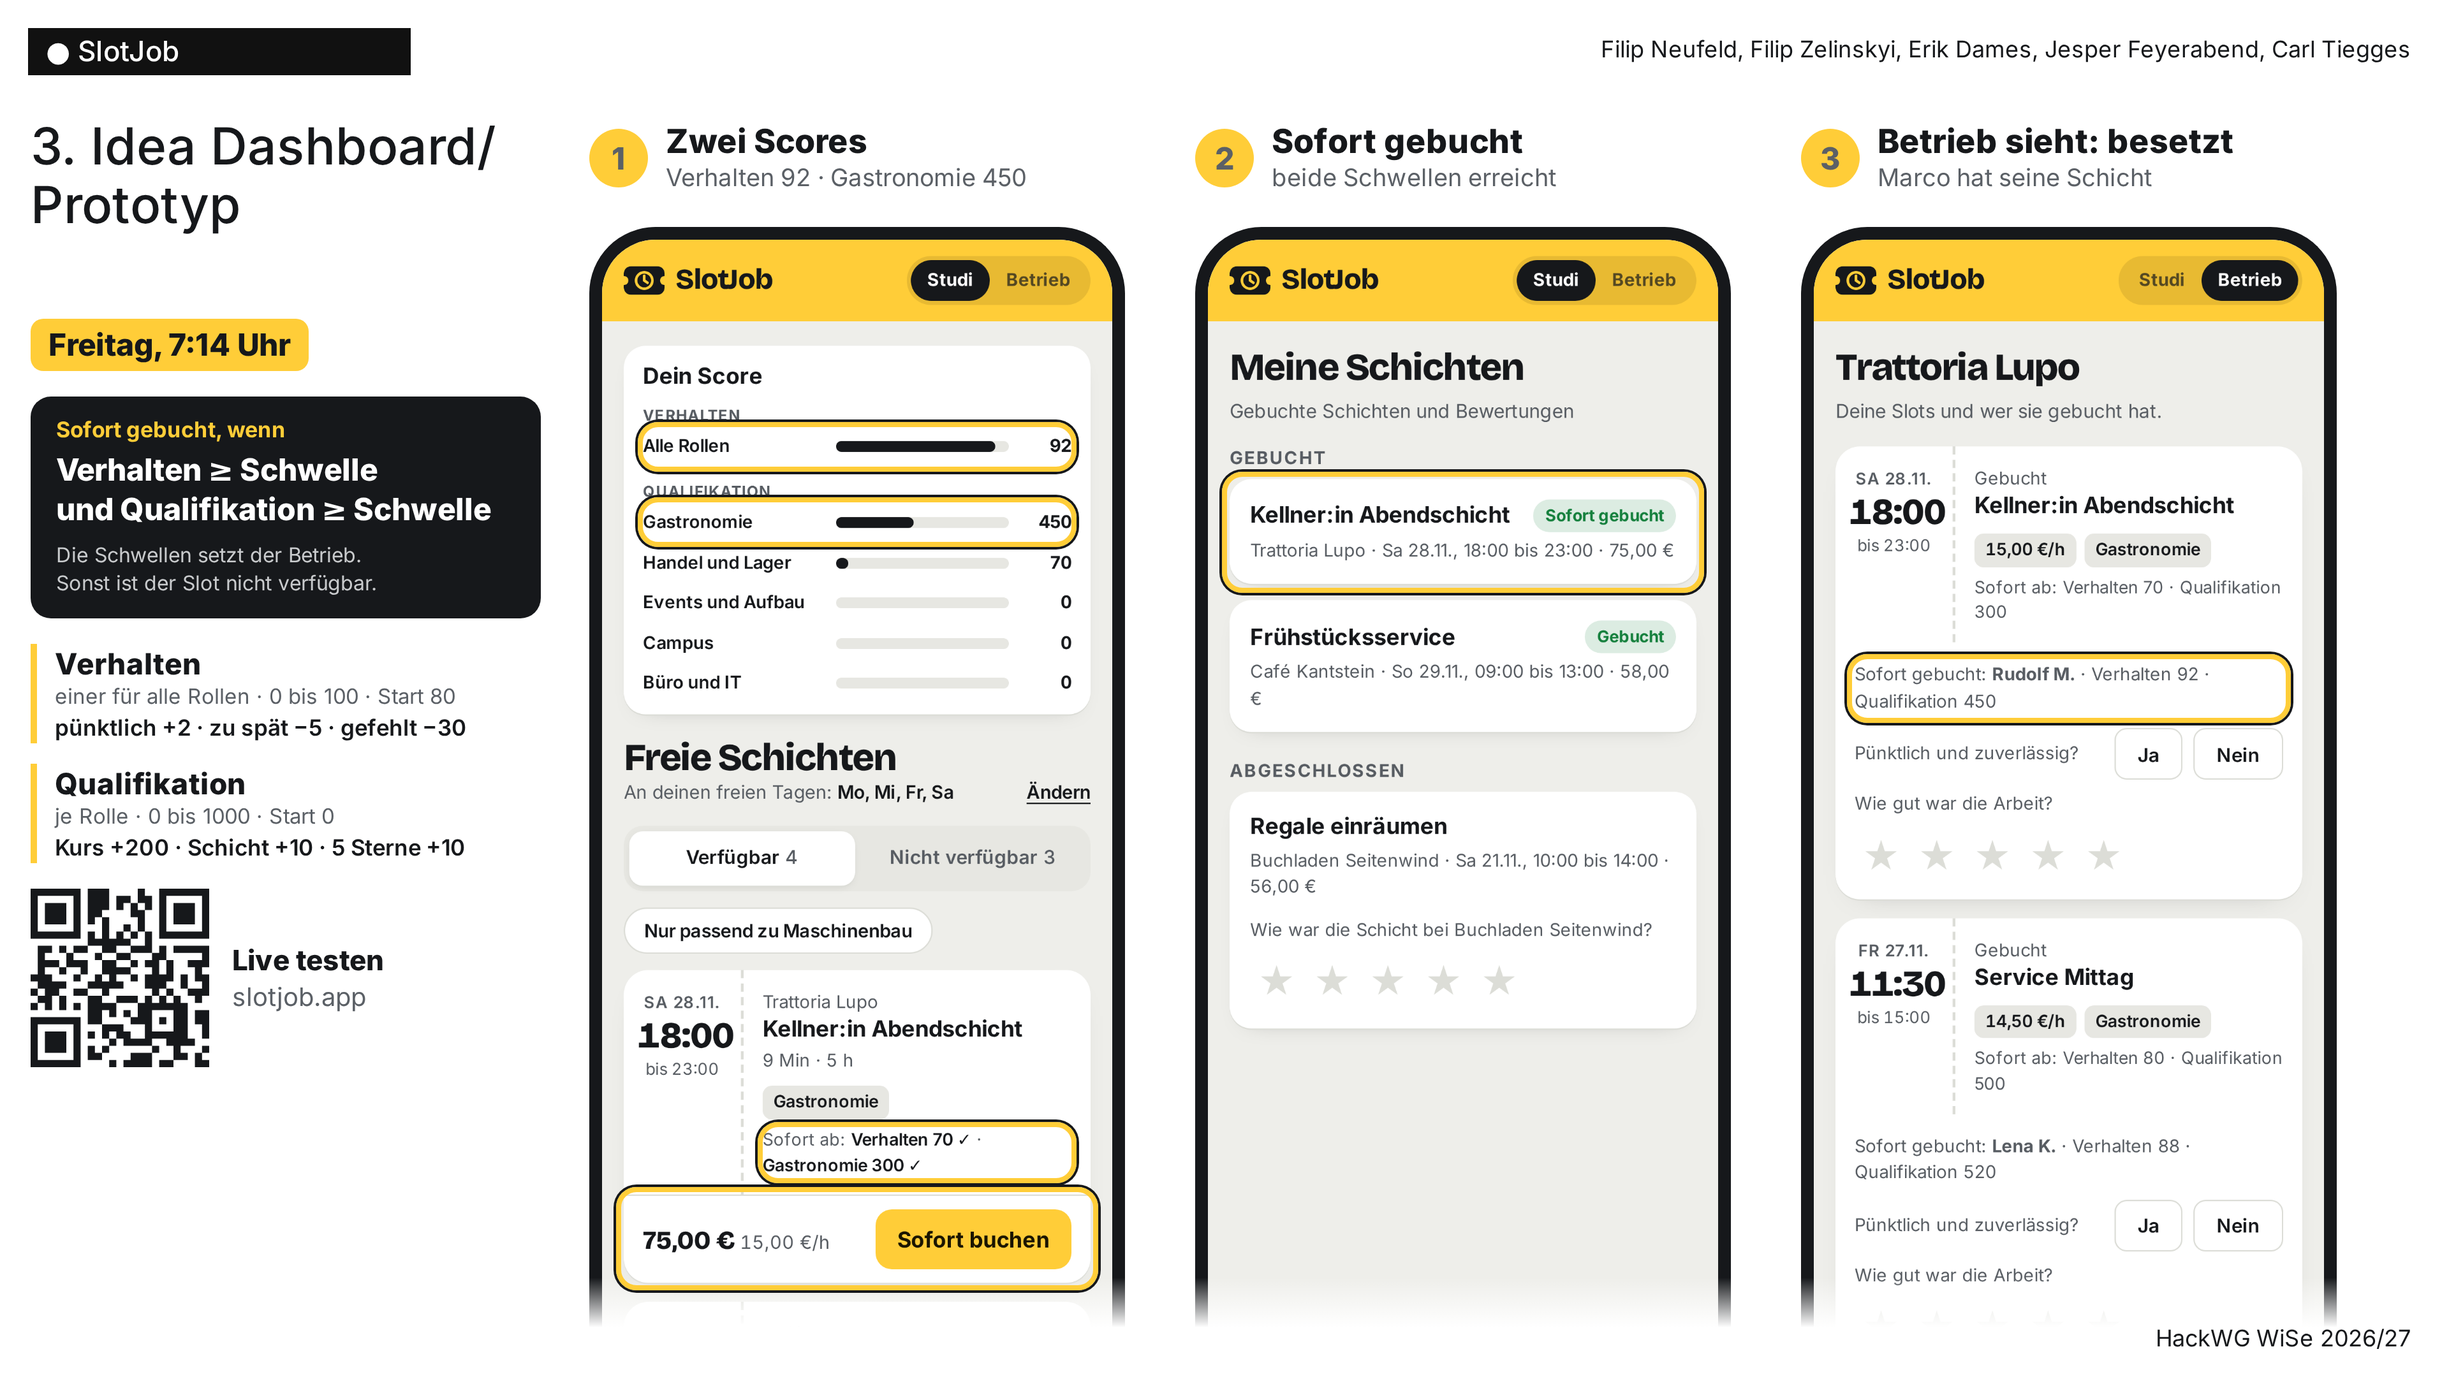
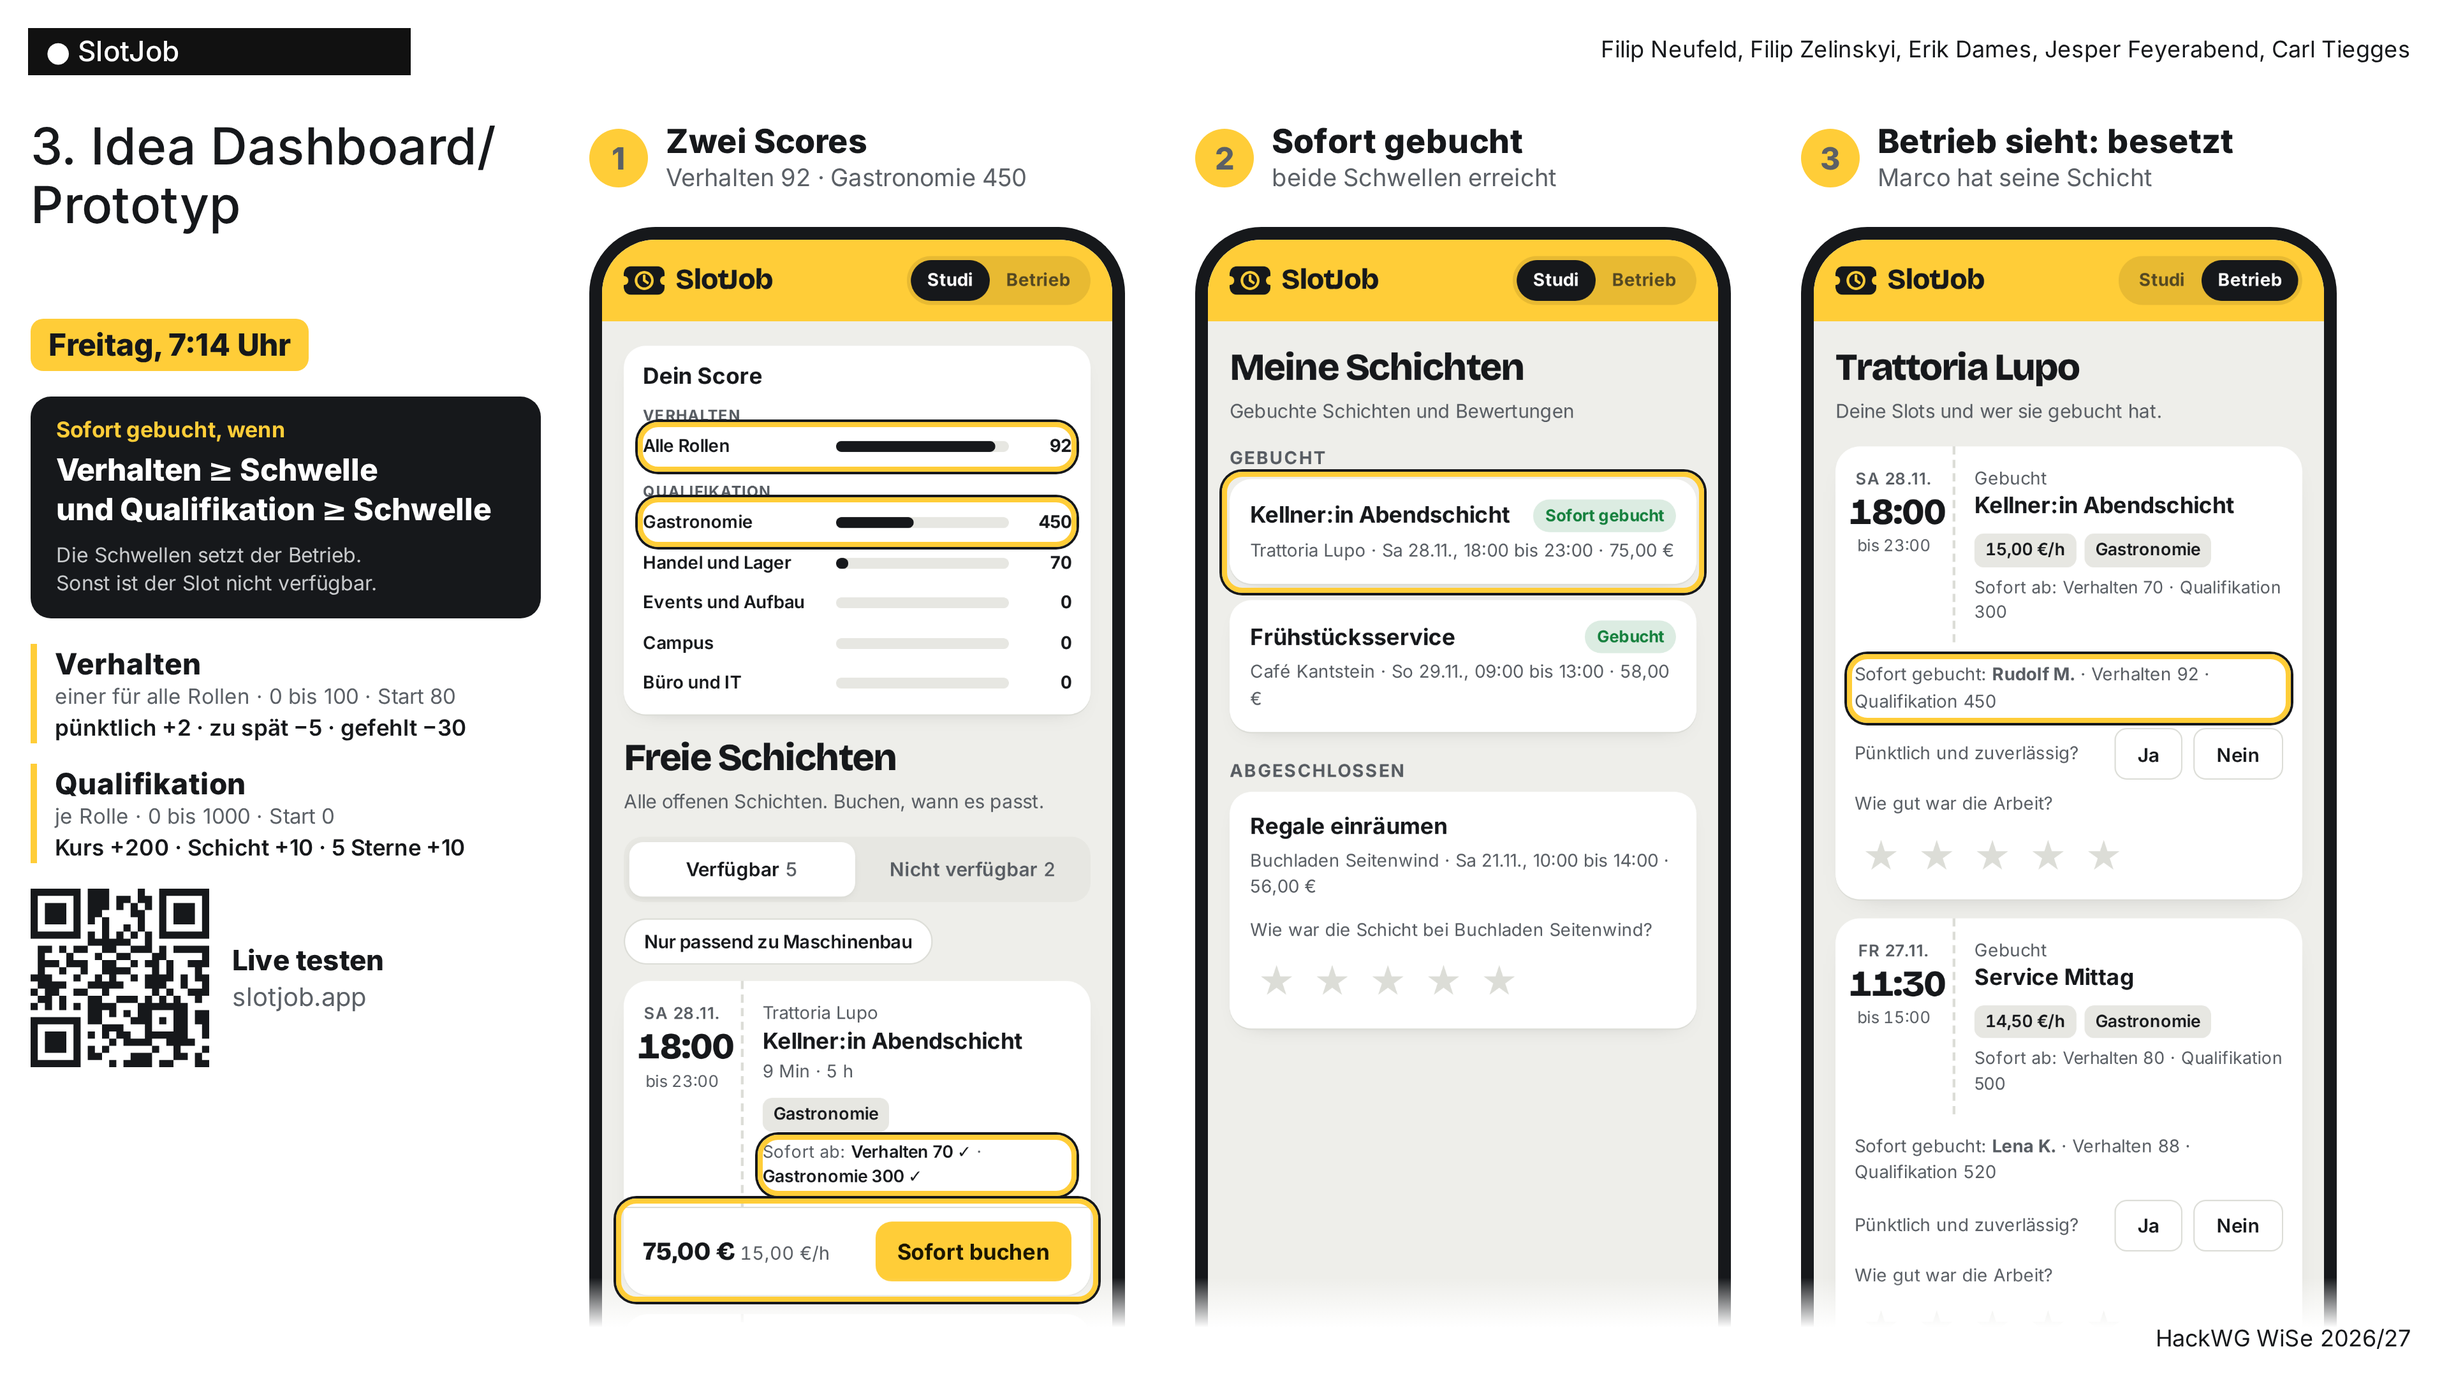
No fixed days: every open slot is visible and bookable at any time when both score thresholds are met
Filip 27.11.: the flexibility is that a student sees all open shifts and books spontaneously; the weekly free days are gone from onboarding, the slot list and the profile. A slot is unavailable only when a threshold is missed. plan.txt, kontext.md, the pitch text and slide 3 follow.

Claude-Session: https://claude.ai/code/session_01TtYjNNzjFNGfjoyzmP8vJg

Changed region(s): [[0.25, 0.5583, 0.4688, 0.9616]]

diff --git a/site/index.html b/site/index.html
@@ -60,9 +60,6 @@ h2{font:800 28px/1.05 var(--display);letter-spacing:-.03em;margin:2px 0 6px;text
 h3{font:700 16.5px/1.3 var(--text);margin:0}
 .sub{color:var(--mute);font-size:14px;margin:0 0 16px}
 .filters{display:grid;grid-template-columns:minmax(0,1fr) minmax(0,1fr);gap:4px;margin:0 0 16px;padding:4px;background:var(--soft);border-radius:14px}
-.myday{display:flex;align-items:center;justify-content:space-between;gap:10px;margin:-6px 0 14px;font-size:13.5px;color:var(--mute)}
-.myday b{color:var(--ink);font-weight:600}
-.myday .link{padding:0}
 .f{border:0;background:none;border-radius:10px;padding:8px 10px;font-size:14px;text-wrap:balance;line-height:1.2;font-weight:600;min-height:40px;color:var(--mute);text-align:center}
 .f.on{background:var(--card);color:var(--ink);box-shadow:0 1px 0 var(--line),0 2px 8px -4px rgba(0,0,0,.18)}
 .f .n{font-weight:500;color:var(--mute);margin-left:4px;font-variant-numeric:tabular-nums}
@@ -224,7 +221,7 @@ input[type=file]{font-size:13px;max-width:100%}
 </div>
 <script>
 {
-const KEY='slotjob-v5';
+const KEY='slotjob-v6';
 const DAYS=['Mo','Di','Mi','Do','Fr','Sa','So'];
 const FIELDS=['Maschinenbau','Informatik','BWL','Lehramt','Umweltwissenschaften','Anderes'];
 const LIMIT=603;
@@ -236,7 +233,7 @@ const RULES={v:[[['Start','80'],['Pünktlich','+2'],['Spontan','+5'],['Krank','0
  q:[[['Kurs/Zeugnis','+200'],['Schicht','+10']],[['5 Sterne','+10'],['1–2 Sterne','−10']]]};
 const NOTE={v:'Minuspunkte halbieren sich nach 3 Monaten.',q:'Gleiche Qualifikation zählt einmal. Schichten zählen bis +400.'};
 const rulesBox=t=>`<div class="rules">${RULES[t].map(col=>`<div>${col.map(([l,v])=>`<p><span>${l}</span><b>${v}</b></p>`).join('')}</div>`).join('')}</div><p class="small" style="margin:6px 0 0">${NOTE[t]}</p>`;
-const fresh=()=>({role:null,onb:0,field:'Maschinenbau',noExp:true,avail:['Mo','Mi','Fr','Sa'],tab:'slots',filter:'ok',open:null,roles:[],booked:[],instant:[],rated:{},cert:null,certRole:'Kellner',certs:{},biz:'Trattoria Lupo',etab:'mine',
+const fresh=()=>({role:null,onb:0,field:'Maschinenbau',noExp:true,tab:'slots',filter:'ok',open:null,roles:[],booked:[],instant:[],rated:{},cert:null,certRole:'Kellner',certs:{},biz:'Trattoria Lupo',etab:'mine',
  ev:[
   {a:'v',t:'Start',p:80},
   {a:'v',t:'16 × pünktlich',p:32},
@@ -309,7 +306,7 @@ const stars=(key,val)=>`<div class="stars">${[1,2,3,4,5].map(i=>`<button data-ac
 
 function onboarding(){
   const st=S.onb;
-  const steps=S.role==='emp'?2:3;
+  const steps=2;
   const bar=`<div class="steps">${Array.from({length:steps},(_,i)=>`<i class="${i<=st?'on':''}"></i>`).join('')}</div>`;
   let body='';
   if(st===0) body=`<div class="onb-hero">${logo()}<div class="big">Schichten statt Stellen.</div></div><p class="sub" style="font-weight:600;color:var(--ink)">Wie willst du SlotJob nutzen?</p>
@@ -321,15 +318,11 @@ function onboarding(){
   else if(st===1) body=`<div class="big">Was studierst du?</div><p class="sub">Damit zeigen wir dir auch Slots, die zu deinem Fach passen.</p>
    <label for="field">Studiengang</label><select id="field">${FIELDS.map(f=>`<option ${f===S.field?'selected':''}>${f}</option>`).join('')}</select>
    <label class="check"><input id="noexp" type="checkbox" ${S.noExp?'checked':''}> Ich habe noch keine Joberfahrung</label><div class="spacer"></div>
-   <button class="btn wide" data-act="next">Weiter</button>`;
-  else body=`<div class="big">Wann hast du diese Woche Zeit?</div><p class="sub">Du legst das jede Woche neu fest, z.B. weniger in der Prüfungsphase.</p>
-   <div class="days">${DAYS.map(d=>`<button data-act="day" data-v="${d}" class="${S.avail.includes(d)?'on':''}" aria-pressed="${S.avail.includes(d)}">${d}</button>`).join('')}</div><div class="spacer"></div>
-   <button class="btn wide" data-act="finish">Passende Schichten zeigen</button>`;
+   <button class="btn wide" data-act="finish">Schichten zeigen</button>`;
   return `<div class="main"><div class="onb">${st===0?'':bar}${body}${st>0?'<button class="link" data-act="back">Zurück</button>':''}</div></div>`;
 }
 
 function why(x){
-  if(!S.avail.includes(x.day))return [`${x.day} ist kein freier Tag`,`<button class="link" data-act="availgo">Freie Tage ändern</button>`];
   const v=vScore(),q=qScore(x.area);
   if(q<x.min)return [`${AN(x.area)} ${x.min} nötig, du hast ${q}`,x.area==='gastro'?`<button class="link" data-act="tab" data-v="kurse">Kurs ansehen</button><span class="small">oder</span><button class="link" data-act="certgo" data-v="Kellner">Zeugnis hochladen</button>`:''];
   if(v<x.minV)return [`Verhalten ${x.minV} nötig, du hast ${v}`,''];
@@ -364,9 +357,7 @@ function slotsView(){
   const fieldOn=!!S.fieldOnly&&S.field!=='Anderes',base=fieldOn?S.slots.filter(x=>x.fields.includes(S.field)):S.slots;
   const list=base.filter(cur[2]);
   const f=([k,l,fn])=>`<button class="f ${cur[0]===k?'on':''}" data-act="filter" data-v="${k}" aria-pressed="${cur[0]===k}">${l}<span class="n">${base.filter(fn).length}</span></button>`;
-  const days=DAYS.filter(d=>S.avail.includes(d));
-  return `${scoreCard()}<h2>Freie Schichten</h2>
-   <div class="myday"><span>${days.length?`An deinen freien Tagen: <b>${days.join(', ')}</b>`:'Du hast noch keine freien Tage gewählt.'}</span><button class="link" data-act="availgo">Ändern</button></div>
+  return `${scoreCard()}<h2>Freie Schichten</h2><p class="sub">Alle offenen Schichten. Buchen, wann es passt.</p>
    <div class="filters" role="group" aria-label="Filter">${FILTERS.map(f).join('')}</div>
    ${S.field!=='Anderes'?`<button class="chip ${fieldOn?'on':''}" data-act="fieldf" aria-pressed="${fieldOn}">Nur passend zu ${esc(S.field)}</button>`:''}
    ${list.length?list.map(slotCard).join(''):`<div class="empty">${cur[0]==='ok'?'Gerade ist nichts für dich verfügbar.<br><button class="link" data-act="filter" data-v="no">Warum? Nicht verfügbare ansehen</button>':'Alle Slots sind für dich verfügbar.'}</div>`}`;
@@ -391,7 +382,6 @@ function shiftsView(){
 function profilView(){
   const earned=S.shifts.reduce((a,x)=>a+hrs(x.s,x.e)*x.pay,0),pct=Math.min(100,earned/LIMIT*100);
   return `<div style="margin-bottom:14px"><div><h2 style="margin:0">Rudolf M.</h2><p class="sub" style="margin:0">${esc(S.field)} · ★ 4,8 aus 19 Schichten</p></div></div>
-  <div class="card" id="availcard"><h3>Meine freien Tage</h3><p class="small" style="margin:4px 0 0">Slots an anderen Tagen stehen unter Nicht verfügbar.</p><div class="days" style="margin:12px 0 0">${DAYS.map(d=>`<button data-act="day" data-v="${d}" class="${S.avail.includes(d)?'on':''}" aria-pressed="${S.avail.includes(d)}">${d}</button>`).join('')}</div></div>
   <div class="card"><h3>Minijob-Grenze</h3><div class="row" style="margin-top:6px"><span class="big-num">${eur(earned)}</span><span class="small">von ${LIMIT} € im November</span></div><div class="bar"><i style="width:${pct}%"></i></div><p class="small" style="margin:0">Noch ${eur(Math.max(0,LIMIT-earned))} bis zur Grenze.</p></div>
   <div class="card"><h3>Qualifikationen</h3><div class="meta">${S.roles.length?S.roles.map(r=>`<span class="tag sun">${esc(r)}</span>`).join(''):'<span class="small">Noch keine. Mach einen Kurs unter Kurse.</span>'}</div></div>
   <div class="card" id="certcard"><h3>Zeugnis hochladen</h3><p class="small" style="margin:4px 0 12px">Ein Zeugnis zählt wie der Kurs: +200 Qualifikation, die gleiche Qualifikation nur einmal.</p>
@@ -452,10 +442,8 @@ root.addEventListener('click',e=>{
   const b=e.target.closest('[data-act]');if(!b)return;
   const v=b.dataset.v,a=b.dataset.act;
   if(a==='pickrole'){S.role=v;S.onb=1}
-  else if(a==='next'){S.field=document.getElementById('field').value;S.noExp=document.getElementById('noexp').checked;S.onb=2}
   else if(a==='back'){S.onb--;if(S.onb===0)S.role=null}
-  else if(a==='finish'){if(S.role==='emp'){const n=document.getElementById('biz').value.trim();if(n)S.biz=n}S.onb=99;toast(S.role==='emp'?'Fertig. Hier sind deine Slots.':'Fertig. Hier sind Schichten für dich.')}
-  else if(a==='day'){S.avail=S.avail.includes(v)?S.avail.filter(d=>d!==v):[...S.avail,v]}
+  else if(a==='finish'){if(S.role==='emp'){const n=document.getElementById('biz').value.trim();if(n)S.biz=n}else{S.field=document.getElementById('field').value;S.noExp=document.getElementById('noexp').checked}S.onb=99;toast(S.role==='emp'?'Fertig. Hier sind deine Slots.':'Fertig. Hier sind Schichten für dich.')}
   else if(a==='tab'){if(S.role==='emp')S.etab=v;else S.tab=v;const m=root.querySelector('.main');if(m)m.scrollTop=0}
   else if(a==='filter'){S.filter=v}
   else if(a==='fieldf'){S.fieldOnly=!S.fieldOnly}
@@ -471,7 +459,6 @@ root.addEventListener('click',e=>{
   else if(a==='setrole'){if(S.role!==v){S.role=v;if(S.onb<99)S.onb=99}}
   else if(a==='switch'){S.role=S.role==='emp'?'studi':'emp';if(S.onb<99)S.onb=99}
   else if(a==='certok'){qualify(v,'Zeugnis '+v)}
-  else if(a==='availgo'){S.tab='profil';save();render();const c=document.getElementById('availcard'),m=root.querySelector('.main');if(c&&m)m.scrollTop=c.offsetTop-m.offsetTop-12;return}
   else if(a==='certgo'){S.tab='profil';S.certRole=v;save();render();const c=document.getElementById('certcard'),m=root.querySelector('.main');if(c&&m)m.scrollTop=c.offsetTop-m.offsetTop-12;return}
   else if(a==='reset'){S=fresh();toast('Zurückgesetzt')}
   const keep=root.querySelector('.main')?.scrollTop||0;

diff --git a/docs/kontext.md b/docs/kontext.md
@@ -14,14 +14,14 @@
 
 - **Slots**
   - Oben "Dein Score" mit zwei Teilen. Verhalten: ein Balken für alle Rollen, 0 bis 100. Qualifikation: 5 Balken, einer je Rolle, 0 bis 1000. Tippen auf einen Balken zeigt, woraus der Wert besteht, und die Punkteregeln in zwei Spalten.
-  - Darunter "Freie Schichten" mit der Zeile "An deinen freien Tagen: Mo, Mi, Fr, Sa · Ändern".
-  - Filter: "Verfügbar" (an freien Tagen) und "Nicht verfügbar" (mit Grund, z. B. "Di ist kein freier Tag"). Darunter der Schalter "Nur passend zu Maschinenbau": zeigt nur Slots, die der Betrieb mit dem eigenen Studiengang markiert hat.
+  - Darunter "Freie Schichten": alle offenen Schichten, jederzeit buchbar, sobald beide Schwellen erreicht sind. Es gibt keine festen Tage und keinen Wochenplan.
+  - Filter: "Verfügbar" (beide Schwellen erreicht) und "Nicht verfügbar" (mit Grund, z. B. "Gastronomie 300 nötig, du hast 250"). Darunter der Schalter "Nur passend zu Maschinenbau": zeigt nur Slots, die der Betrieb mit dem eigenen Studiengang markiert hat.
   - Slotkarte: Datum, Uhrzeit, Betrieb, Tätigkeit, Weg, Dauer, Rolle als Tag, Lohn, darunter "Sofort ab: Verhalten 70 ✓ · Gastronomie 300 ✓". Der Knopf:
     - "Sofort buchen", wenn beide Schwellen erreicht sind. Die Schicht steht dann direkt unter Zugesagt.
-    - "Nicht verfügbar", wenn eine Schwelle fehlt ("Gastronomie 300 nötig, du hast 250", mit Link zu Kurs und Zeugnis) oder der Tag kein freier Tag ist.
+    - "Nicht verfügbar", wenn eine Schwelle fehlt ("Gastronomie 300 nötig, du hast 250", mit Link zu Kurs und Zeugnis).
 - **Kurse**: Service-Grundkurs (Kellner) und Barista-Basics (Barista), beide Gastronomie. Anmelden, dann "Kurs abschließen": +200 Qualifikation in der Rolle.
 - **Schichten**: Zugesagt (sofort gebucht oder angenommen), Beworben, Abgeschlossen mit Sternebewertung des Betriebs.
-- **Profil**: freie Tage (Mo bis So), Minijob-Grenze (Verdienst im Monat gegen 603 €), Qualifikationen, Zeugnis hochladen (zählt wie der Kurs, gleiche Qualifikation einmal).
+- **Profil**: Minijob-Grenze (Verdienst im Monat gegen 603 €), Qualifikationen, Zeugnis hochladen (zählt wie der Kurs, gleiche Qualifikation einmal).
 
 ### Betriebs-Ansicht (Trattoria Lupo)
 
@@ -40,13 +40,13 @@
 
 - Rudolf, Verhalten 92: Start 80, 16 × pünktlich +32, spontan eingesprungen +5, 3 × zu spät −15, Absage unter 24 h −10.
 - Rudolf, Qualifikation: Gastronomie 250 (14 Schichten +140, 11 × 5 Sterne +110), Handel und Lager 70, Events und Aufbau 0, Campus 0, Büro und IT 0.
-- 7 Slots: 3 verfügbar, 4 nicht verfügbar (Kellner wegen Qualifikation, Konzert wegen Verhalten, Di und Do keine freien Tage).
+- 7 Slots: 4 verfügbar, 3 nicht verfügbar (Kellner und Helpdesk wegen Qualifikation, Konzert wegen Verhalten).
   - Service und Kasse (Gastronomie, Verhalten 70, Qualifikation 0): Sofort buchen.
   - Kellner:in Abendschicht (Gastronomie, 70, 300): nicht verfügbar (250), nach dem Kurs Sofort buchen.
   - Lager und Leergut (Handel und Lager, 70, 0): Sofort buchen.
   - CAD-Modelle (Campus, 80, 0, passt zu Maschinenbau): Sofort buchen.
   - Aufbau Konzert (Events und Aufbau, 95, 0): nicht verfügbar, weil Verhalten 92.
-  - Helpdesk (Dienstag) und Inventur (Donnerstag): nicht verfügbar.
+  - Helpdesk (Büro und IT, 70, 100): nicht verfügbar. Inventur (Handel und Lager, 70, 0): Sofort buchen.
 
 ### Demo-Ablauf (1 Minute)
 
@@ -56,7 +56,7 @@
 
 ## Technik
 
-- Eine Datei `site/index.html` (HTML, CSS, JavaScript), kein Server. Der Zustand liegt im Browser (localStorage, Schlüssel `slotjob-v5`). "Zurücksetzen" im Profil stellt die Demo-Daten wieder her.
+- Eine Datei `site/index.html` (HTML, CSS, JavaScript), kein Server. Der Zustand liegt im Browser (localStorage, Schlüssel `slotjob-v6`). "Zurücksetzen" im Profil stellt die Demo-Daten wieder her.
 - Repo mit `site/index.html`, `docs/plan.txt`, `docs/kontext.md`, `ideen/`. Deploy mit `python3 deploy.py` auf Cloudflare Pages.
 - Beide Scores werden aus einer Ereignisliste berechnet (Rolle oder Verhalten, Text, Punkte). Verhalten 0 bis 100. Qualifikation 0 bis 1000: gleiche Qualifikation einmal, Schichten höchstens +400. Der Studiengang zählt nicht.
 
